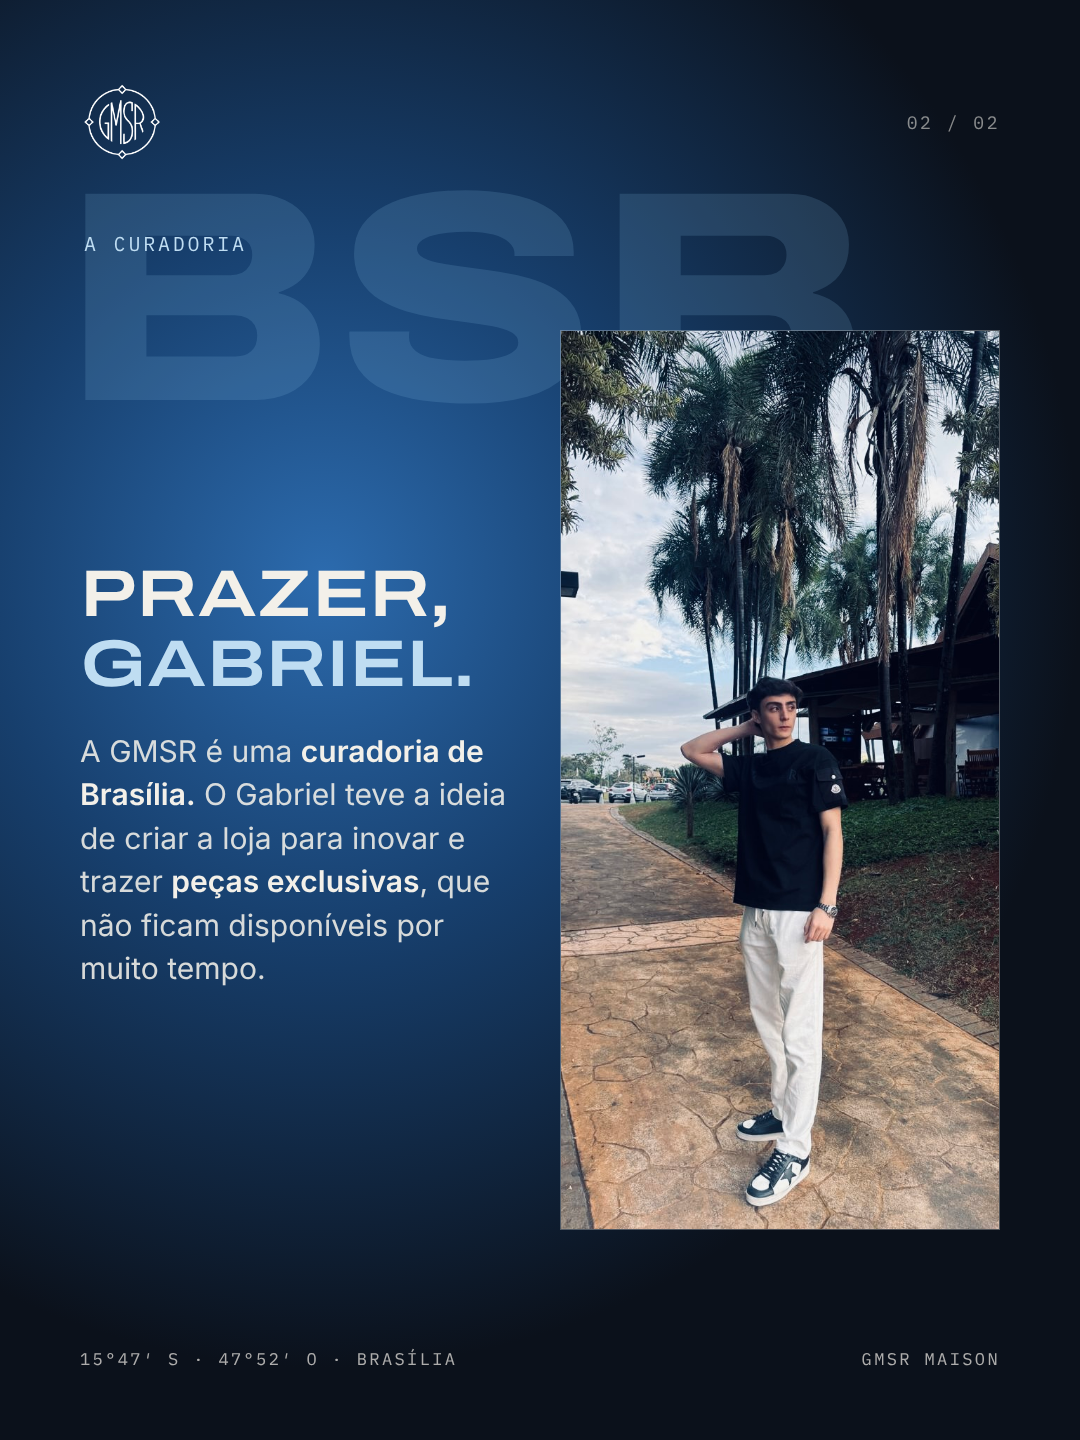
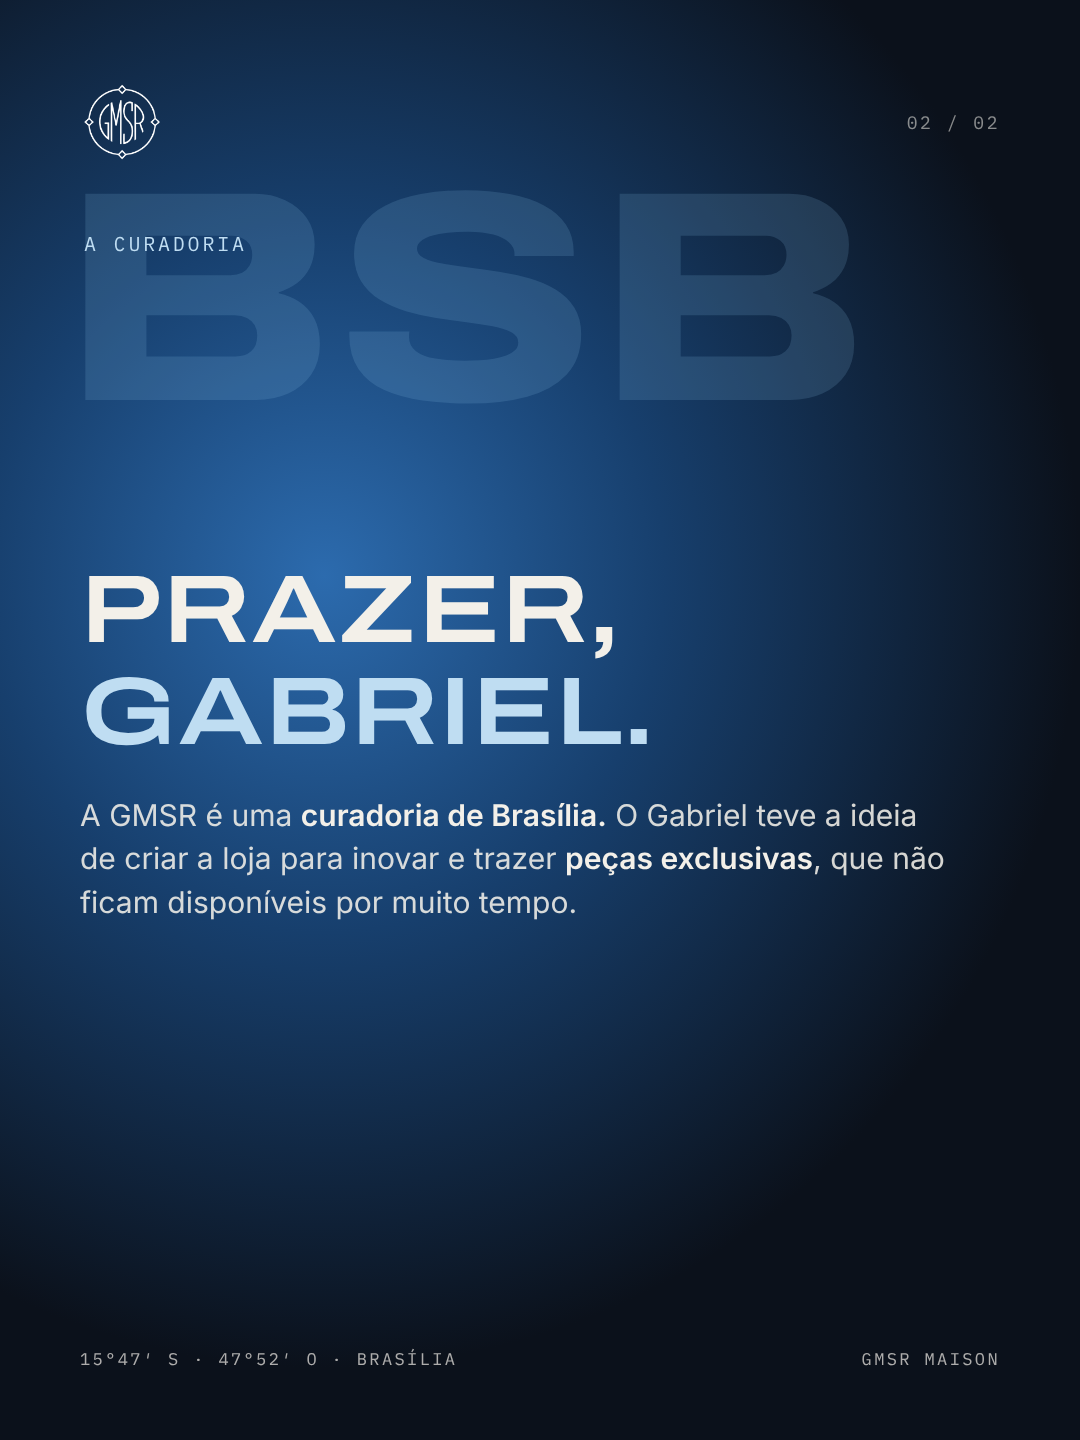
"Quem é o dono": 2º slide sem foto, só o texto em destaque
Claude-Session: https://claude.ai/code/session_018Rxm36svjxPgU3W8TLCnbb

Changed region(s): [[0.0611, 0.2188, 0.9472, 0.875]]

diff --git a/posts-grade/04-carrossel-dono/slides.html b/posts-grade/04-carrossel-dono/slides.html
@@ -168,11 +168,10 @@
 <section class="slide tile"><div class="c3" style="background:radial-gradient(70% 55% at 30% 40%,#2C6BAE 0%,#173F6D 45%,#0B111B 100%)">
   <div class="top"><img src="../../assets/logo/gmsr-mono-branco.png" alt=""><span class="mono counter"></span></div>
   <div class="big" style="color:rgba(140,200,238,.16)">BSB</div><div class="lbl mono" style="color:#BFDDF2">A curadoria</div>
-  <div class="body" style="top:560px;right:560px">
-    <div class="w h" style="font-size:66px">Prazer,<br><em style="color:#BFDDF2">Gabriel.</em></div>
+  <div class="body" style="top:560px;right:80px">
+    <div class="w h" style="font-size:96px">Prazer,<br><em style="color:#BFDDF2">Gabriel.</em></div>
     <p style="color:rgba(243,240,233,.88)">A GMSR é uma <b>curadoria de Brasília.</b> O Gabriel teve a ideia de criar a loja para inovar e trazer <b>peças exclusivas</b>, que não ficam disponíveis por muito tempo.</p>
   </div>
-  <div class="side" style="top:330px;width:440px;height:900px;border-color:rgba(243,240,233,.3)"><img src="../../assets/fotos/dono-2.jpg" style="object-position:50% 40%" alt=""></div>
   <div class="foot mono" style="color:rgba(243,240,233,.7)"><span>15°47′ S · 47°52′ O · Brasília</span><span>GMSR Maison</span></div>
 </div></section>
 
